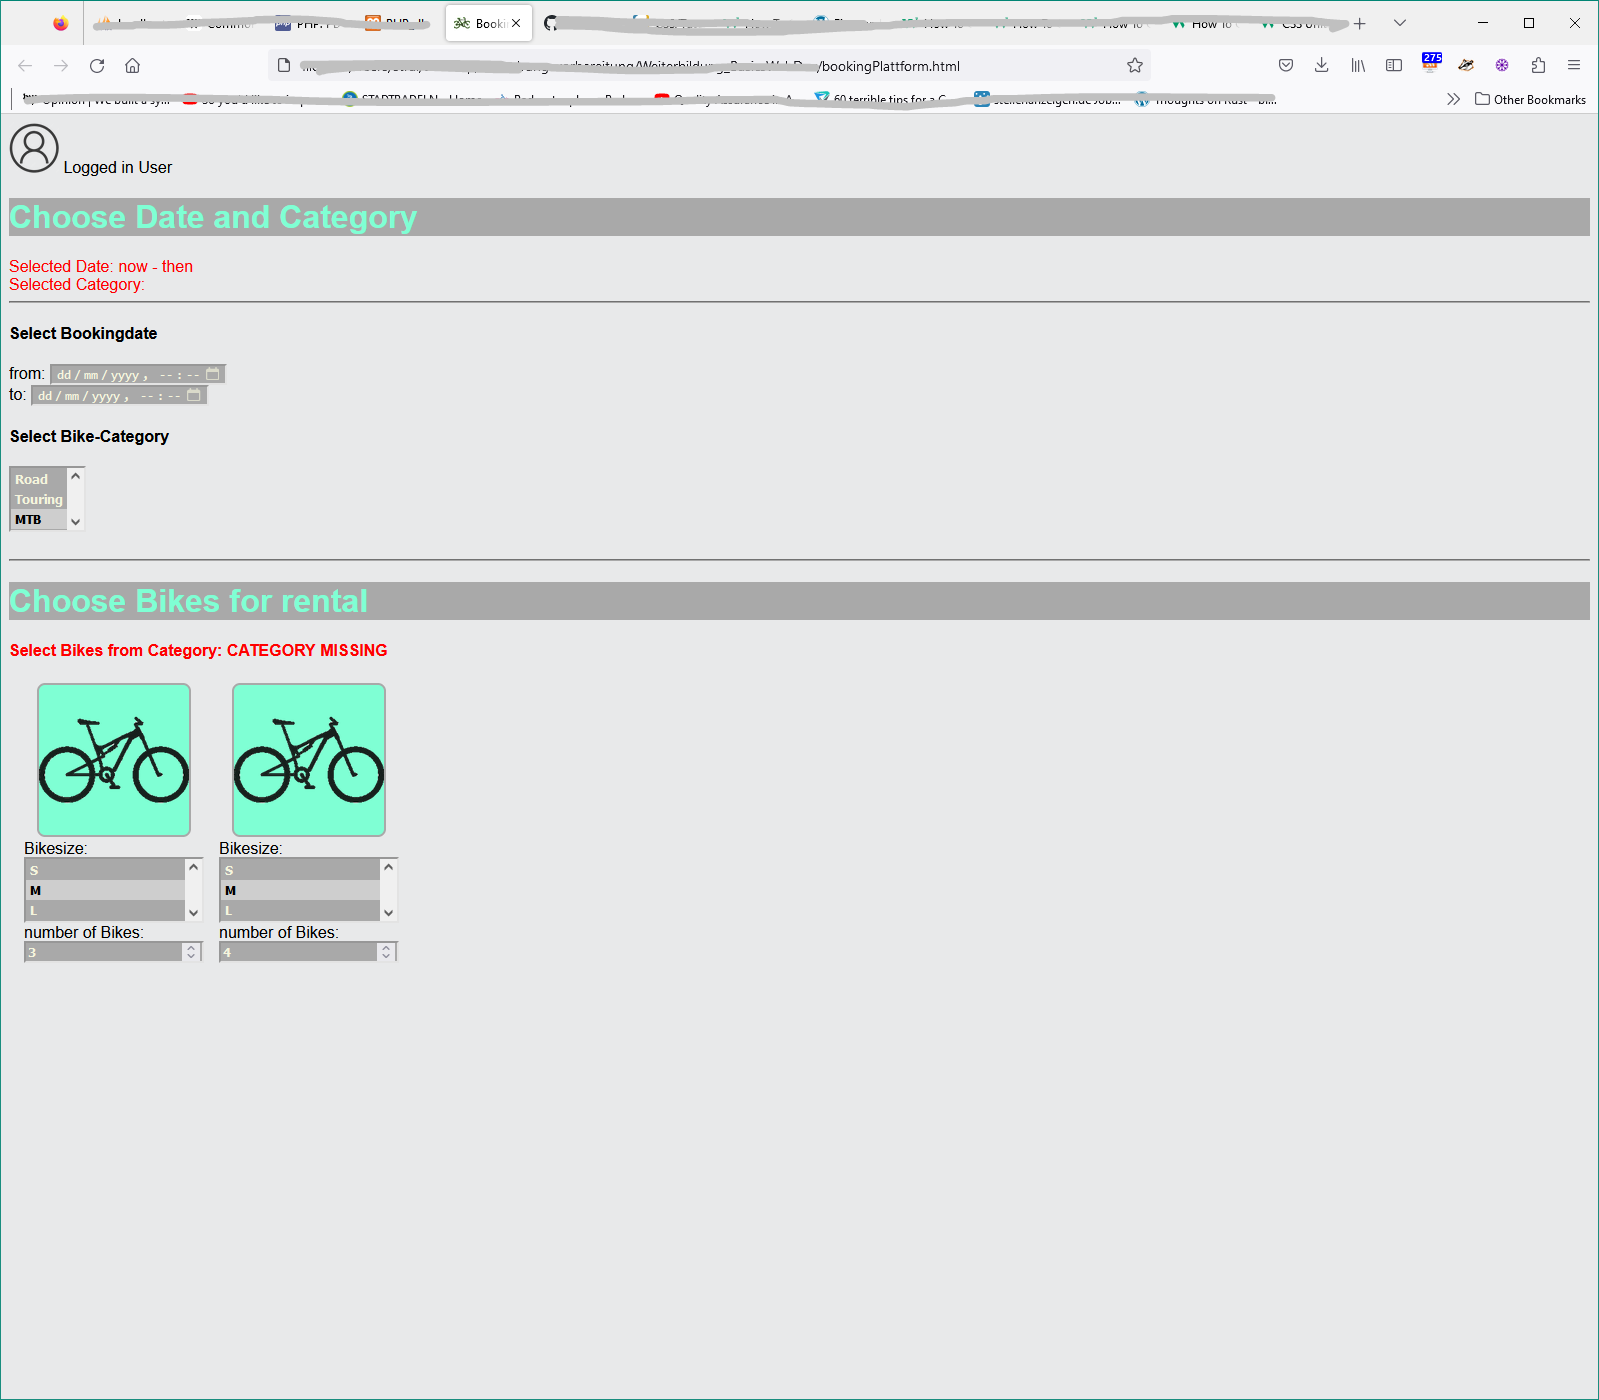
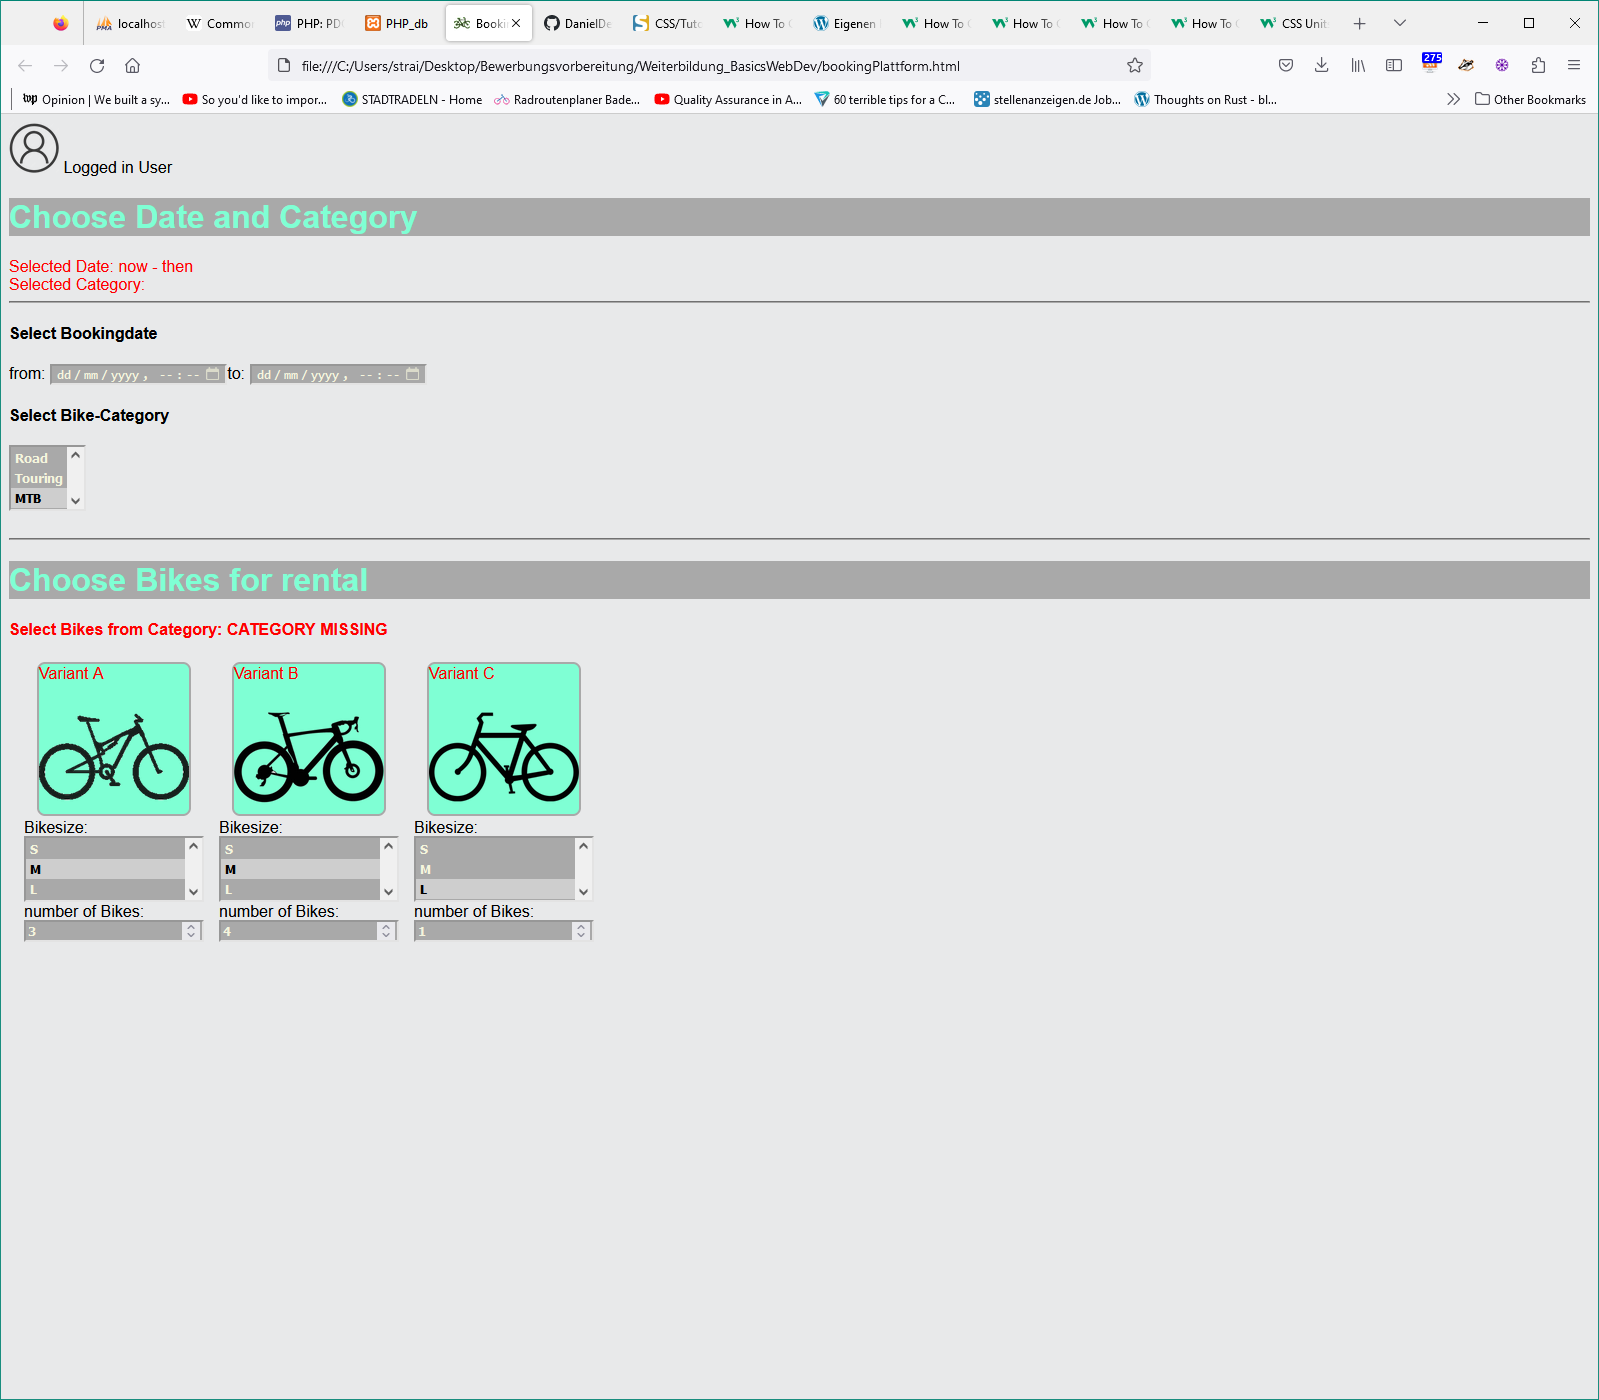
add more bike categories

Changed region(s): [[0.0, 0.2764, 1.0, 0.7064], [0.0306, 0.0, 0.858, 0.0921], [0.1532, 0.2457, 0.2758, 0.2764]]

diff --git a/bookingPlattform.html b/bookingPlattform.html
@@ -33,11 +33,8 @@
             flex-direction: column;
             margin-left: 15px;
         }
-        div.rowFlowDirection{
-            display: flex;
-            flex-direction: row;
-        }
         p.stubImage {
+            color: red;
             border:solid thick darkgray;  
             background: aquamarine; 
             border-radius: 0.5em; 
@@ -46,6 +43,11 @@
             width:150px; 
             height:150px;
             align-self: center;
+        }
+
+        .flexRow {
+            display: flex;
+            flex-direction: row;
         }
 
         /* helper style for visually identifying ToDos*/
@@ -64,12 +66,14 @@
             <hr>
             <h4>Select Bookingdate </h4>
             <form>
-                <label for="dateFrom">from: 
-                    <input type="datetime-local" id="dateFrom" name="dateFrom"><br>
-                </label>
-                <label for="dateTo">to: 
-                    <input type="datetime-local" id="dateTo" name="dateTo"></label>
-                <br>
+                <div class="flexRow">
+                    <label for="dateFrom">from: 
+                        <input type="datetime-local" id="dateFrom" name="dateFrom">
+                    </label>
+                    <label for="dateTo">to: 
+                        <input type="datetime-local" id="dateTo" name="dateTo">
+                    </label>
+                </div>
             </form>
             <h4>Select Bike-Category </h4>
             <select name="bikeCategories" size="3"> <!-- todo: make sure no additional values can be added / submitted lateron via HTML-->
@@ -82,9 +86,9 @@
         <hr></hr>
         <h1>Choose Bikes for rental</h1>
         <h4 class="todo">Select Bikes from Category: CATEGORY MISSING </h4>
-        <div class="rowFlowDirection">
+        <div class="flexRow">
                     <div class="bikeToChooseEntry">
-                        <p class="stubImage">
+                        <p class="stubImage">Variant A
                             <img src="./stub_mtb_category.png"  alt="stub mtb categoryicon" width="100%" heigt="auto">
                         </p>
                         <label >Bikesize:
@@ -100,8 +104,24 @@
                         </form>
                     </div>
                     <div class="bikeToChooseEntry">
-                        <p class="stubImage">
-                            <img src="./stub_mtb_category.png"  alt="stub mtb categoryicon" width="100%" heigt="auto">
+                        <p class="stubImage">Variant B
+                            <img src="./stub_road_category.png"  alt="stub road categoryicon" width="100%" heigt="auto">
+                        </p>
+                        <label >Bikesize:
+                        </label>
+                        <select name="bikeSize" size="3"> <!-- todo: make sure no additional values can be added / submitted lateron via HTML-->
+                            <option>S</option>
+                            <option>M</option>
+                            <option>L</option>
+                        </select>
+                        <form>
+                            <label for="numberOfBikes">number of Bikes:</label><br>
+                            <input type="number" id="numberOfBikes" name="numberOfBikes"><br>
+                        </form>
+                    </div>
+                    <div class="bikeToChooseEntry">
+                        <p class="stubImage">Variant C
+                            <img src="./stub_touring_category.png"  alt="stub touring categoryicon" width="100%" heigt="auto">
                         </p>
                         <label >Bikesize:
                         </label>
